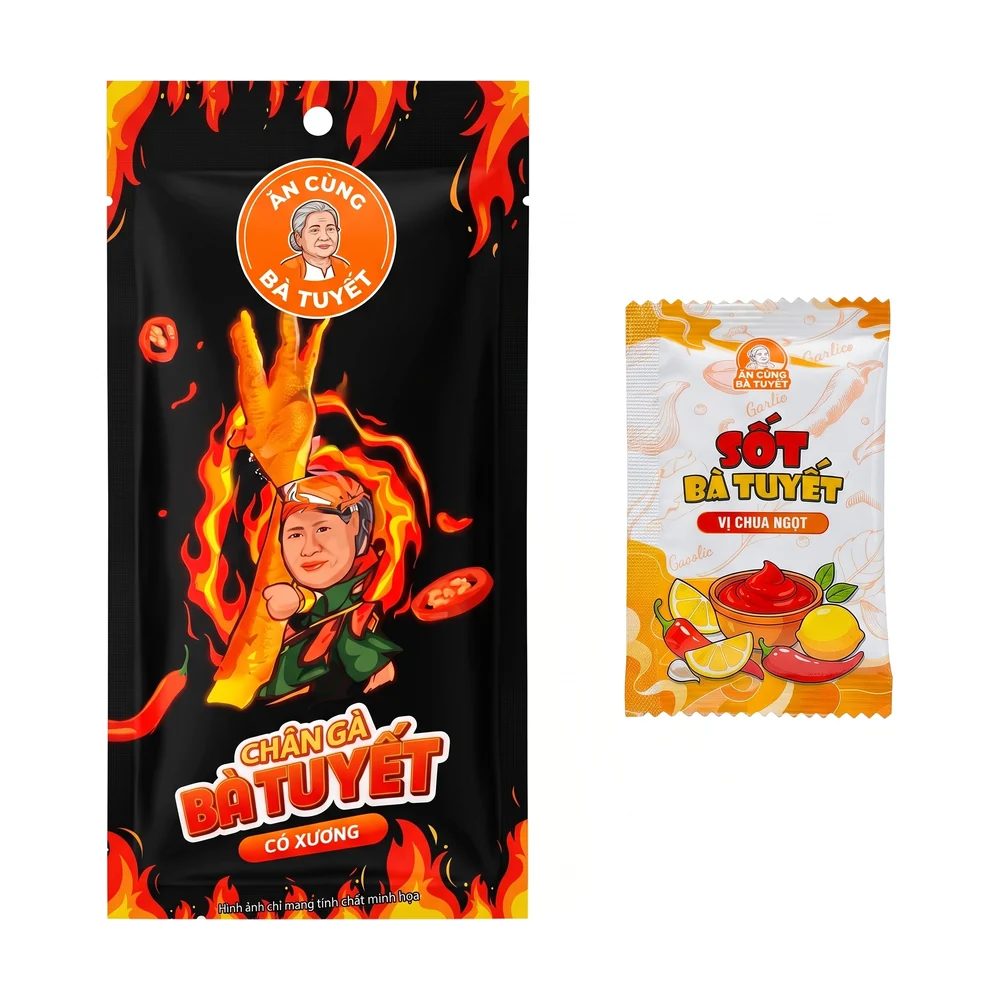
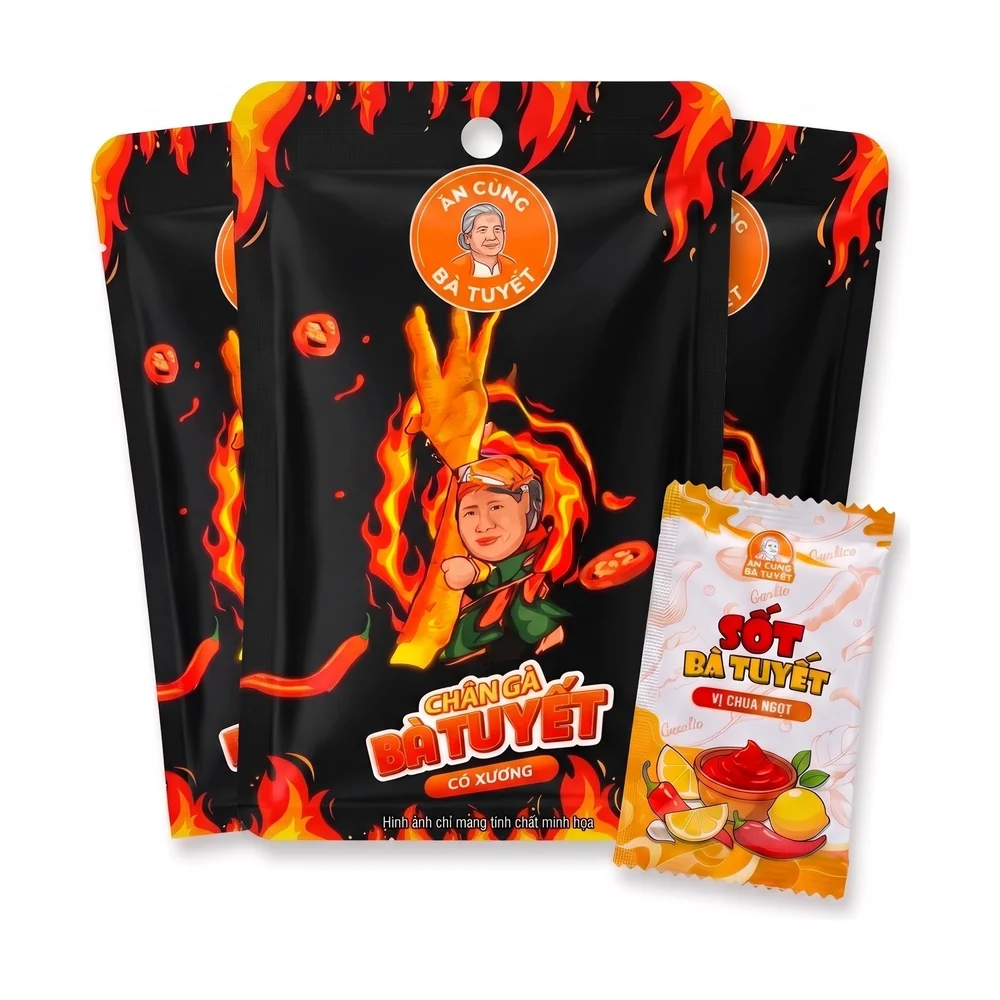
review(2549225-chan-ga): 1 products — 0 keep, 1 fixed, 0 need photo, 0 asked
Bone-in Ba Tuyet pack redrawn as 3 packs + sauce sachet, matching the deboned set.

Claude-Session: https://claude.ai/code/session_01DMTF5GjS3P9om8RxKa1WuX

diff --git a/STATUS.md b/STATUS.md
@@ -2,7 +2,7 @@
 
 > Sinh tự động bởi `node tools/status.mjs`. **Không sửa tay.** Nguồn sự thật là `meta.json` của từng SP.
 
-Tổng 2561 SP · đã xem 2561 (100%) · xong 2510 · chờ chủ duyệt 4 · cần chụp 1 · hỏi chủ 1
+Tổng 2561 SP · đã xem 2561 (100%) · xong 2507 · chờ chủ duyệt 7 · cần chụp 1 · hỏi chủ 1
 
 Thứ tự làm: từ trên xuống (doanh số 90 ngày giảm dần). `xong` = giữ nguyên + đã lên web.
 
@@ -65,7 +65,7 @@ Thứ tự làm: từ trên xuống (doanh số 90 ngày giảm dần). `xong` =
 | 55 | Xịt khử mùi | 0.0tr | 16 | 0 | 0 | 0 | 0 | 0 | 0 | 0 | 16 |
 | 56 | Bánh gạo | 0.0tr | 16 | 0 | 0 | 1 | 0 | 0 | 0 | 0 | 15 |
 | 57 | Cáp sạc & dây | 0.0tr | 15 | 0 | 0 | 0 | 0 | 0 | 0 | 0 | 15 |
-| 58 | Chân gà | 0.0tr | 15 | 0 | 0 | 0 | 0 | 0 | 0 | 0 | 15 |
+| 58 | Chân gà | 0.0tr | 15 | 0 | 0 | 0 | 0 | 0 | 1 | 0 | 14 |
 | 59 | Cocktail lon RTD | 0.0tr | 15 | 0 | 3 | 0 | 0 | 0 | 0 | 0 | 12 |
 | 60 | Sữa chua kiểu Hy Lạp | 0.0tr | 15 | 0 | 0 | 0 | 0 | 0 | 0 | 0 | 15 |
 | 61 | Mì cay (Ly/Tô/Cốc) | 0.0tr | 15 | 0 | 0 | 0 | 0 | 0 | 0 | 0 | 15 |
@@ -155,7 +155,7 @@ Thứ tự làm: từ trên xuống (doanh số 90 ngày giảm dần). `xong` =
 | 145 | Kẹo mút | 0.0tr | 5 | 0 | 0 | 0 | 0 | 0 | 0 | 0 | 5 |
 | 146 | Miến ăn liền | 0.0tr | 5 | 0 | 0 | 0 | 0 | 0 | 0 | 0 | 5 |
 | 147 | Đồ uống nội địa | 0.0tr | 5 | 0 | 0 | 0 | 0 | 0 | 0 | 0 | 5 |
-| 148 | Vang Đỏ | 0.0tr | 5 | 0 | 4 | 0 | 0 | 0 | 0 | 0 | 1 |
+| 148 | Vang Đỏ | 0.0tr | 5 | 0 | 2 | 0 | 0 | 0 | 2 | 0 | 1 |
 | 149 | Dụng cụ mi | 0.0tr | 4 | 0 | 0 | 0 | 0 | 0 | 0 | 0 | 4 |
 | 150 | Snack & bim bim theo Trend | 0.0tr | 4 | 0 | 0 | 0 | 0 | 0 | 0 | 0 | 4 |
 | 151 | Snack bánh mì nướng / crouton | 0.0tr | 4 | 0 | 0 | 2 | 0 | 0 | 0 | 0 | 2 |

diff --git a/categories/2549225-chan-ga/67031611-chan-ga-co-xuong-ba-tuyet-40gram-90-goi-thung-ke/description.md b/categories/2549225-chan-ga/67031611-chan-ga-co-xuong-ba-tuyet-40gram-90-goi-thung-ke/description.md
@@ -1,4 +1,4 @@
-Chân gà có xương Bà Tuyết kèm gói sốt, chân gà tẩm vị cay, món ăn vặt ăn liền.
+Lốc chân gà có xương Ăn Cùng Bà Tuyết gồm 3 gói chân gà 40 g và 1 gói sốt Bà Tuyết vị chua ngọt. Ăn liền.
 
-Quy cách: 40 g · gói
+Quy cách: lốc 3 gói × 40 g + 1 gói sốt
 Nhà sản xuất/thương hiệu: Ăn Cùng Bà Tuyết
